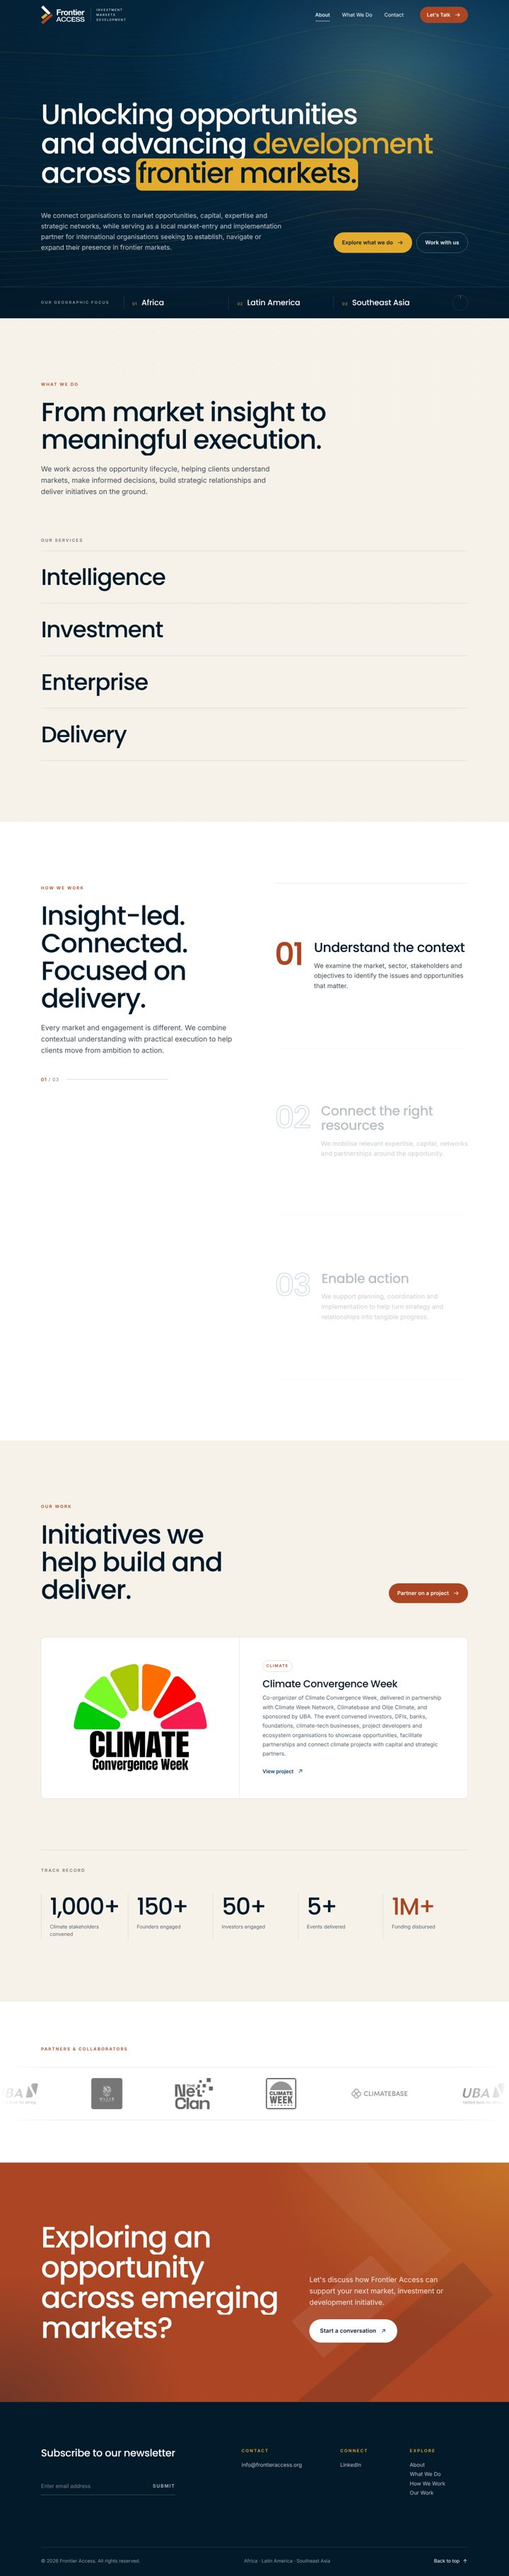
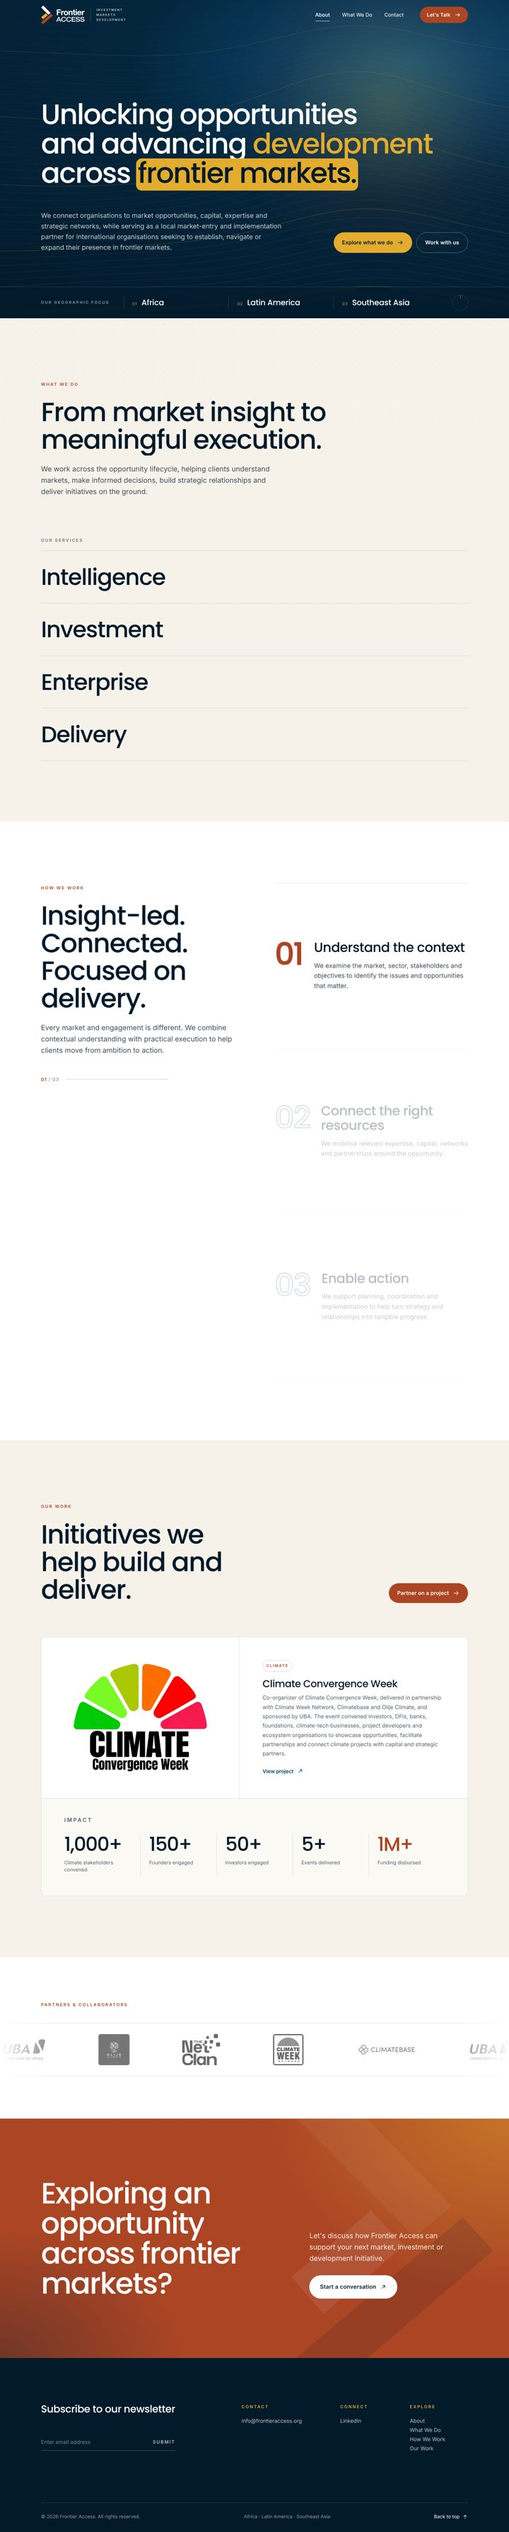
Fold track record into the Climate Convergence Week card; say frontier markets
- Our work: the five figures now sit in an Impact band at the bottom of
  the Climate Convergence Week card, so they read as that event's
  results. The separate Track record block is removed. The card is now
  an article with View project as its link to climateconvergenceweek.com.
- Replace every "emerging markets" with "frontier markets": page title,
  meta description, the Intelligence and Investment service text, and
  the closing call-to-action heading (and the README intro).

Claude-Session: https://claude.ai/code/session_013iMuxdDqZ6bm7NfrpEJfTy

diff --git a/index.html b/index.html
@@ -3,8 +3,8 @@
 <head>
   <meta charset="utf-8" />
   <meta name="viewport" content="width=device-width, initial-scale=1" />
-  <title>Frontier Access — Your partner across emerging markets</title>
-  <meta name="description" content="Frontier Access is an emerging-markets advisory and development firm connecting investors, businesses, institutions and development partners to the intelligence, capital, expertise and networks needed to grow across Africa, Latin America and Southeast Asia." />
+  <title>Frontier Access — Your partner across frontier markets</title>
+  <meta name="description" content="Frontier Access is an frontier-markets advisory and development firm connecting investors, businesses, institutions and development partners to the intelligence, capital, expertise and networks needed to grow across Africa, Latin America and Southeast Asia." />
   <meta name="theme-color" content="#04263D" />
   <link rel="icon" type="image/svg+xml" href="assets/logo/frontier-access-mark.svg" />
   <link rel="icon" type="image/png" sizes="64x64" href="assets/logo/favicon-64.png" />
@@ -131,7 +131,7 @@
               <div class="client-detail-clip">
                 <div class="client-detail-inner">
                   <h4>Market Intelligence &amp; Access</h4>
-                  <p>We provide local market intelligence, sector research and strategic insights that help organisations understand emerging markets, identify opportunities and navigate market dynamics. We also support market entry and expansion through local stakeholder connections, institutional navigation and strategic partnerships.</p>
+                  <p>We provide local market intelligence, sector research and strategic insights that help organisations understand frontier markets, identify opportunities and navigate market dynamics. We also support market entry and expansion through local stakeholder connections, institutional navigation and strategic partnerships.</p>
                 </div>
               </div>
             </div>
@@ -144,7 +144,7 @@
               <div class="client-detail-clip">
                 <div class="client-detail-inner">
                   <h4>Investment &amp; Transaction Advisory</h4>
-                  <p>We support investors, capital providers and businesses in identifying and assessing investment opportunities, facilitating connections and advancing transactions across emerging markets.</p>
+                  <p>We support investors, capital providers and businesses in identifying and assessing investment opportunities, facilitating connections and advancing transactions across frontier markets.</p>
                 </div>
               </div>
             </div>
@@ -230,31 +230,31 @@
         </div>
 
         <div class="work-grid is-single">
-          <a class="project project--feature" href="https://www.climateconvergenceweek.com" target="_blank" rel="noopener" data-reveal>
-            <div class="project-media project-media--logo">
-              <img src="assets/work/climate-convergence-week.jpg" alt="Climate Convergence Week logo" width="720" height="580" decoding="async" />
+          <article class="project project--feature" data-reveal>
+            <div class="project-main">
+              <div class="project-media project-media--logo">
+                <img src="assets/work/climate-convergence-week.jpg" alt="Climate Convergence Week logo" width="720" height="580" decoding="async" />
+              </div>
+              <div class="project-body">
+                <span class="tag">Climate</span>
+                <h3>Climate Convergence Week</h3>
+                <p>Co-organizer of Climate Convergence Week, delivered in partnership with Climate Week Network, Climatebase and Olije Climate, and sponsored by UBA. The event convened investors, DFIs, banks, foundations, climate-tech businesses, project developers and ecosystem organisations to showcase opportunities, facilitate partnerships and connect climate projects with capital and strategic partners.</p>
+                <a class="project-link" href="https://www.climateconvergenceweek.com" target="_blank" rel="noopener">View project <svg aria-hidden="true"><use href="#arrow-ne" /></svg><span class="sr-only"> (opens climateconvergenceweek.com in a new tab)</span></a>
+              </div>
             </div>
-            <div class="project-body">
-              <span class="tag">Climate</span>
-              <h3>Climate Convergence Week</h3>
-              <p>Co-organizer of Climate Convergence Week, delivered in partnership with Climate Week Network, Climatebase and Olije Climate, and sponsored by UBA. The event convened investors, DFIs, banks, foundations, climate-tech businesses, project developers and ecosystem organisations to showcase opportunities, facilitate partnerships and connect climate projects with capital and strategic partners.</p>
-              <span class="project-link">View project <svg aria-hidden="true"><use href="#arrow-ne" /></svg><span class="sr-only"> (opens climateconvergenceweek.com in a new tab)</span></span>
-            </div>
-          </a>
-        </div>
 
-        <!-- Track record -->
-        <div class="track">
-          <div class="track-head" data-reveal>
-            <p class="list-label">Track record</p>
-          </div>
-          <dl class="stats">
-            <div class="stat" data-reveal><dt><span data-count="1000">0</span>+</dt><dd>Climate stakeholders convened</dd></div>
-            <div class="stat" data-reveal style="--d:.06s"><dt><span data-count="150">0</span>+</dt><dd>Founders engaged</dd></div>
-            <div class="stat" data-reveal style="--d:.12s"><dt><span data-count="50">0</span>+</dt><dd>Investors engaged</dd></div>
-            <div class="stat" data-reveal style="--d:.18s"><dt><span data-count="5">0</span>+</dt><dd>Events delivered</dd></div>
-            <div class="stat stat-accent" data-reveal style="--d:.24s"><dt><span data-count="1">0</span>M+</dt><dd>Funding disbursed</dd></div>
-          </dl>
+            <!-- Impact figures for Climate Convergence Week -->
+            <div class="project-stats">
+              <p class="list-label">Impact</p>
+              <dl class="stats">
+                <div class="stat" data-reveal><dt><span data-count="1000">0</span>+</dt><dd>Climate stakeholders convened</dd></div>
+                <div class="stat" data-reveal style="--d:.06s"><dt><span data-count="150">0</span>+</dt><dd>Founders engaged</dd></div>
+                <div class="stat" data-reveal style="--d:.12s"><dt><span data-count="50">0</span>+</dt><dd>Investors engaged</dd></div>
+                <div class="stat" data-reveal style="--d:.18s"><dt><span data-count="5">0</span>+</dt><dd>Events delivered</dd></div>
+                <div class="stat stat-accent" data-reveal style="--d:.24s"><dt><span data-count="1">0</span>M+</dt><dd>Funding disbursed</dd></div>
+              </dl>
+            </div>
+          </article>
         </div>
       </div>
     </section>
@@ -281,7 +281,7 @@
     <section class="cta" aria-labelledby="cta-title">
       <svg class="cta-mark" viewBox="360 133 778 1234" aria-hidden="true"><use href="#fa-mark" x="360" y="133" width="778" height="1234" /></svg>
       <div class="container cta-inner">
-        <h2 class="cta-title" id="cta-title" data-split>Exploring an opportunity across emerging markets?</h2>
+        <h2 class="cta-title" id="cta-title" data-split>Exploring an opportunity across frontier markets?</h2>
         <div class="cta-side" data-reveal>
           <p>Let's discuss how Frontier Access can support your next market, investment or development initiative.</p>
           <a href="mailto:info@frontieraccess.org?subject=Exploring%20an%20opportunity" class="btn btn-light btn-lg"><span>Start a conversation</span><svg aria-hidden="true"><use href="#arrow-ne" /></svg></a>

diff --git a/styles.css b/styles.css
@@ -321,13 +321,18 @@ body.menu-open .mobile-menu li:nth-child(5) a { transition-delay: .44s; }
 .project { display: flex; flex-direction: column; color: var(--ink); }
 .work-grid.is-single { grid-template-columns: 1fr; }
 .project--feature {
-  display: grid; grid-template-columns: 1fr 1.15fr; align-items: stretch;
   background: #fff; border: 1px solid var(--line); border-radius: 12px; overflow: hidden;
-  transition: transform .6s var(--ease), box-shadow .6s var(--ease), border-color .6s var(--ease);
+  transition: box-shadow .6s var(--ease), border-color .6s var(--ease);
 }
-.project--feature:hover { transform: translateY(-4px); box-shadow: 0 30px 60px -36px rgba(6,66,104,.35); border-color: rgba(171,69,36,.35); }
+.project--feature:hover { box-shadow: 0 30px 60px -36px rgba(6,66,104,.3); border-color: rgba(171,69,36,.35); }
+.project-main { display: grid; grid-template-columns: 1fr 1.15fr; align-items: stretch; }
+.project-stats { border-top: 1px solid var(--line); background: #FBF9F4; padding: clamp(28px, 3.5vw, 48px) clamp(24px, 4.5vw, 72px) clamp(32px, 4vw, 56px); }
+.project-stats .stats { margin-top: 24px; }
+.project-stats .stat:first-child { border-left: 0; padding-left: 0; }
+.project-stats .stat dt { font-size: clamp(36px, 3.8vw, 60px); }
 .project--feature .project-body { padding: clamp(32px, 4.5vw, 72px); justify-content: center; }
-.project--feature .project-link { margin-top: 0; }
+.project--feature .project-link { margin-top: 0; align-self: flex-start; }
+.project--feature .project-link:hover svg { transform: translate(3px, -3px); }
 .project--feature h3 { font-size: clamp(28px, 2.8vw, 40px); }
 .project--feature p { font-size: 16px; line-height: 1.7; max-width: 52ch; }
 
@@ -351,8 +356,6 @@ body.menu-open .mobile-menu li:nth-child(5) a { transition-delay: .44s; }
 .project:hover h3 { color: var(--rust); }
 .project h3 { transition: color .4s; }
 
-.track { margin-top: clamp(80px, 10vw, 144px); padding-top: 48px; border-top: 1px solid var(--line); display: grid; grid-template-columns: 1fr; gap: 56px; }
-.track-head { display: grid; grid-template-columns: 1fr 2fr; gap: clamp(32px, 6vw, 96px); align-items: start; }
 .stats { display: grid; grid-template-columns: repeat(5, 1fr); gap: 0; }
 .stat { padding: 4px 24px 8px; border-left: 1px solid var(--line); }
 .stat dt { font-family: var(--f-head); font-weight: 500; font-size: clamp(40px, 4.6vw, 72px); line-height: 1; letter-spacing: -.04em; color: var(--navy-ink); font-variant-numeric: tabular-nums; }
@@ -417,8 +420,8 @@ body.menu-open .mobile-menu li:nth-child(5) a { transition-delay: .44s; }
   .menu-toggle { display: block; }
   .header-inner { gap: 14px; }
   .stats { grid-template-columns: repeat(3, 1fr); row-gap: 40px; }
-  .track-head { grid-template-columns: 1fr; gap: 16px; }
-}
+  .project-stats .stat:nth-child(3n+1) { border-left: 0; padding-left: 0; }
+  }
 
 @media (max-width: 900px) {
   :root { --header-h: 72px; }
@@ -434,7 +437,7 @@ body.menu-open .mobile-menu li:nth-child(5) a { transition-delay: .44s; }
   .step { min-height: 0; opacity: 1; padding: 40px 0; }
   .step .step-num { color: var(--rust); -webkit-text-stroke-color: var(--rust); }
   .work-grid { grid-template-columns: 1fr; gap: 56px; }
-  .project--feature { grid-template-columns: 1fr; }
+  .project-main { grid-template-columns: 1fr; }
   .project-media.project-media--logo { aspect-ratio: 16 / 11; min-height: 0; border-right: 0; border-bottom: 1px solid var(--line); }
   .project--feature .project-body { padding: 28px 24px 32px; }
   .project--feature p { font-size: 16px; }
@@ -446,6 +449,8 @@ body.menu-open .mobile-menu li:nth-child(5) a { transition-delay: .44s; }
 @media (max-width: 640px) {
     .stats { grid-template-columns: repeat(2, 1fr); }
   .stat-accent { grid-column: span 2; }
+  .project-stats .stat:nth-child(3n+1) { border-left: 1px solid var(--line); padding-left: 16px; }
+  .project-stats .stat:nth-child(odd) { border-left: 0; padding-left: 0; }
   .footer-cols { grid-template-columns: 1fr 1fr; }
   .footer-cols > div:first-child { grid-column: span 2; }
   .logo-desc { display: none; }

diff --git a/README.md b/README.md
@@ -1,6 +1,6 @@
 # Frontier Access — website
 
-One-page website for **Frontier Access** (frontieraccess.org), an emerging-markets advisory and development firm working across Africa, Latin America and Southeast Asia.
+One-page website for **Frontier Access** (frontieraccess.org), a frontier-markets advisory and development firm working across Africa, Latin America and Southeast Asia.
 
 **Live preview:** https://chukwuvidera.github.io/Frontier-Access-website/
 
